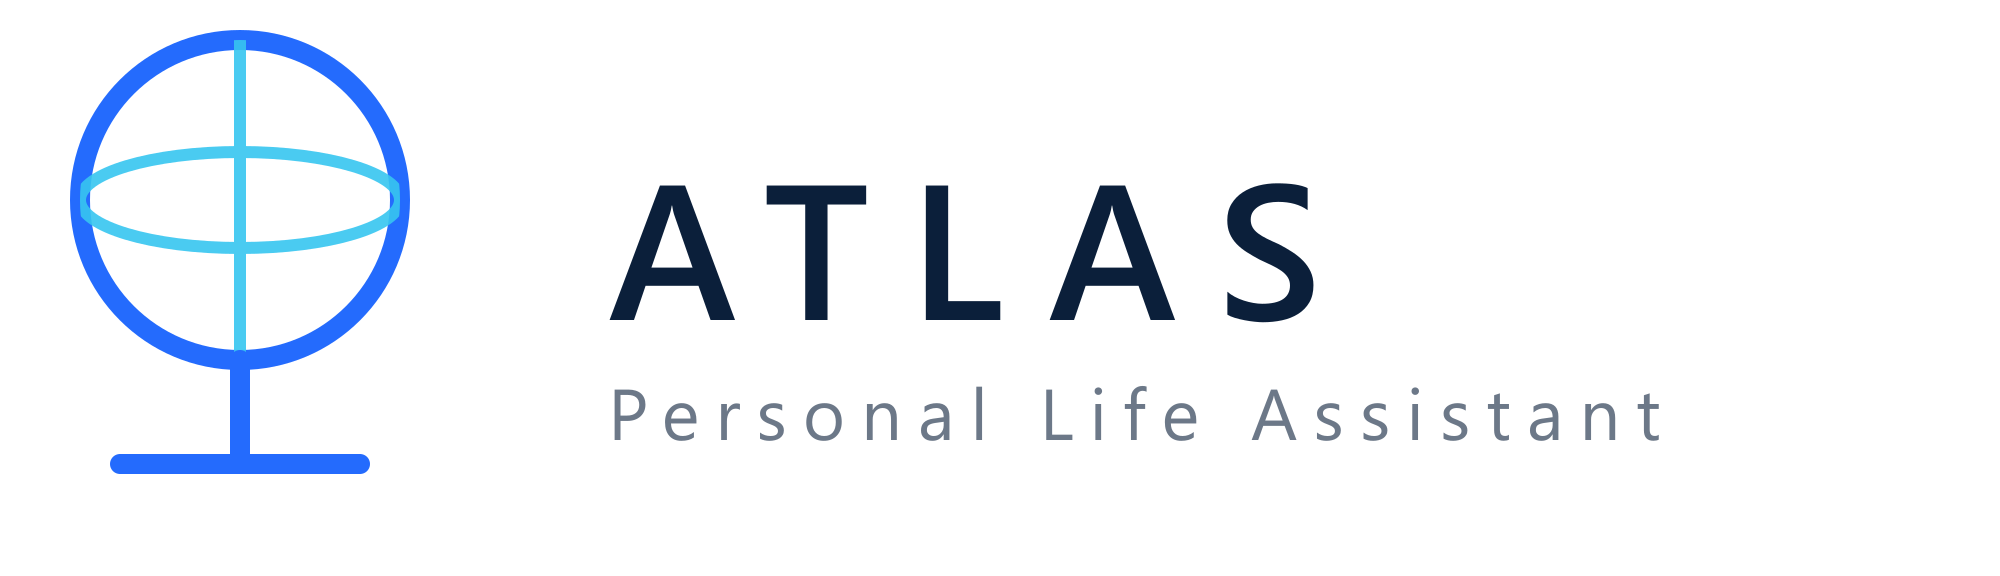
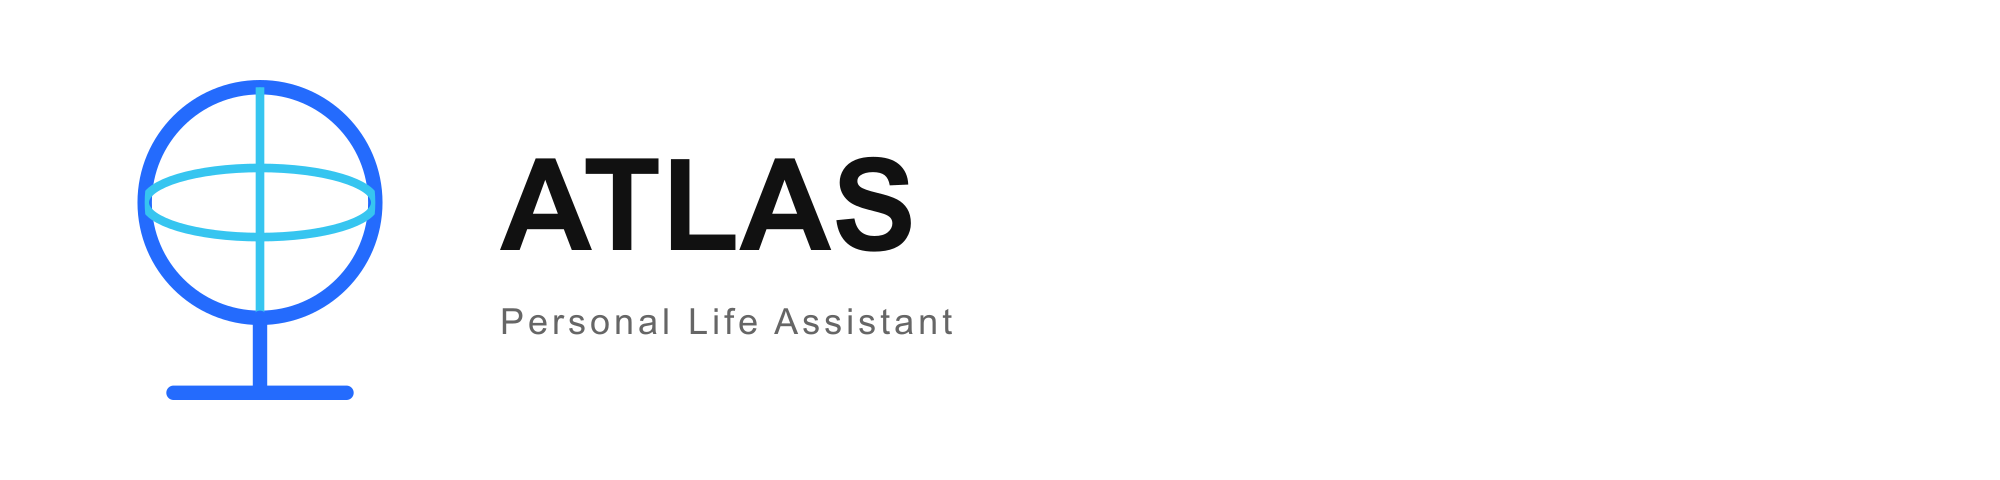
fix(branding): normalize asset variants and raster exports

diff --git a/assets/README.md b/assets/README.md
@@ -1,82 +1,17 @@
-# ATLAS Brand Assets
+# ATLAS — Brand assets
 
-## Brand Overview
+Shared variant convention across the four organizations.
 
-**ATLAS is a comprehensive personal assistant designed to centralize and simplify the management of everyday life, including schedules, routines, finances, health, wellbeing, beauty, personal goals, and other areas of daily life.**
+| Variant | Background | Artwork |
+|---|---|---|
+| Horizontal / vertical | Transparent | Brand-colored symbol, dark text |
+| Dark lockup / wordmark | `#2D2D2D` | Solid white |
+| Monochrome | Transparent | Solid black |
+| Symbol / symbol-light / symbol-color | Transparent | Black / white / brand colors |
+| Wordmark / wordmark-light | Transparent | Dark text |
+| Favicon / avatar | `#2D2D2D` | Solid white symbol |
+| Safari pinned tab | Transparent | Solid black symbol |
 
-Its purpose is to provide one central place from which the user can organize and manage their personal world.
+PNG sizes: horizontal 2000×480, vertical 1200×1200, symbols 1024×1024, wordmarks 1600×400, favicons 256×256. Typography uses Arial with Helvetica and sans-serif fallbacks; no remote font imports.
 
----
-
-## Design Explanation
-
-### The Sphere
-
-The circle at the center of the symbol represents the user's personal world — the totality of the areas that make up daily life. It is deliberately abstract; it is not a globe, not a planet, not a data visualization. It is a whole.
-
-### The Internal Divisions
-
-Three diameter lines cross the sphere at 60° intervals, creating six equal sectors. These divisions do not represent specific life areas through icons or labels. Instead they communicate the idea of a structured, organized world — a life partitioned into areas that are distinct but part of the same whole. The divisions use the cyan accent (#36C5F0) to visually separate them from the primary structure.
-
-### The Support Structure
-
-Two arms extend downward from the base of the sphere, spreading outward to form a stable base. A crossbar connects them at the midpoint. Together they form an abstract "A" shape — a subtle, structural reference to Atlas without depicting a human figure. This is the supporting geometry: Atlas holding up the world.
-
-### The Blue Palette
-
-- **Deep Navy (#0B1F3A)** — Authority, depth, trust. Used for typography on light backgrounds and as a brand ground.
-- **Atlas Blue (#246BFD)** — The primary identity color. Modern, clear, and confident without being corporate.
-- **Cyan Accent (#36C5F0)** — A restrained secondary tone used within the sphere to suggest variety within unity.
-
-### Symbol and Wordmark
-
-The symbol is designed to work completely independently from the wordmark. ATLAS in uppercase with generous letter-spacing paired with the "Personal Life Assistant" tagline completes the identity in context.
-
----
-
-## Asset Inventory
-
-| Filename | Category | Background | Color Mode | Tagline | Min Size |
-|---|---|---|---|---|---|
-| lockup-horizontal.svg | Lockup | Light (transparent) | Color | Yes | 240px |
-| lockup-horizontal-dark.svg | Lockup | Dark | Color | Yes | 240px |
-| lockup-horizontal-monochrome.svg | Lockup | Light (transparent) | Black | Yes | 240px |
-| lockup-vertical.svg | Lockup | Light (transparent) | Color | Yes | 140px |
-| symbol-color.svg | Symbol | Dark | Color | No | 32×32px |
-| symbol.svg | Symbol | Light (transparent) | Black | No | 32×32px |
-| symbol-light.svg | Symbol | Dark | White | No | 32×32px |
-| wordmark.svg | Wordmark | Light (transparent) | Navy | Yes | 160px |
-| wordmark-dark.svg | Wordmark | Dark | White | Yes | 160px |
-| wordmark-light.svg | Wordmark | Dark | Silver | Yes | 160px |
-| favicon.svg | Favicon | Dark | Color | No | 32×32px |
-| safari-pinned-tab.svg | Favicon | Light (transparent) | Black | No | 32×32px |
-
----
-
-## Minimum Sizes
-
-- **Full horizontal lockup** — Screen: 240px · Print: 50mm
-- **Vertical lockup** — Screen: 140px · Print: 32mm
-- **Wordmark** — Screen: 160px
-- **Symbol** — Minimum: 32×32px · Recommended: 48×48px
-- **Tagline** — Do not display below 240px lockup width
-
----
-
-## Clear Space
-
-Maintain a clear-space margin equal to the radius of the central sphere on every side of the logo. No other elements, text, or imagery should enter this zone.
-
----
-
-## Misuse
-
-Do not:
-- Change symbol proportions or rearrange internal geometry
-- Stretch or distort the logo
-- Add unrelated colors, shadows, bevels, or 3D effects
-- Add robot, AI, or neural-network imagery
-- Turn the symbol into a detailed globe with continents
-- Depict the mythological Atlas as a person
-- Replace the wordmark with decorative typography
-- Use the tagline below its minimum recommended size
+Regeneration: `python C:/develop/phronesis-framework/assets/scripts/normalize-assets.py`. Requires `rsvg-convert`. Validation: append `--check`.
